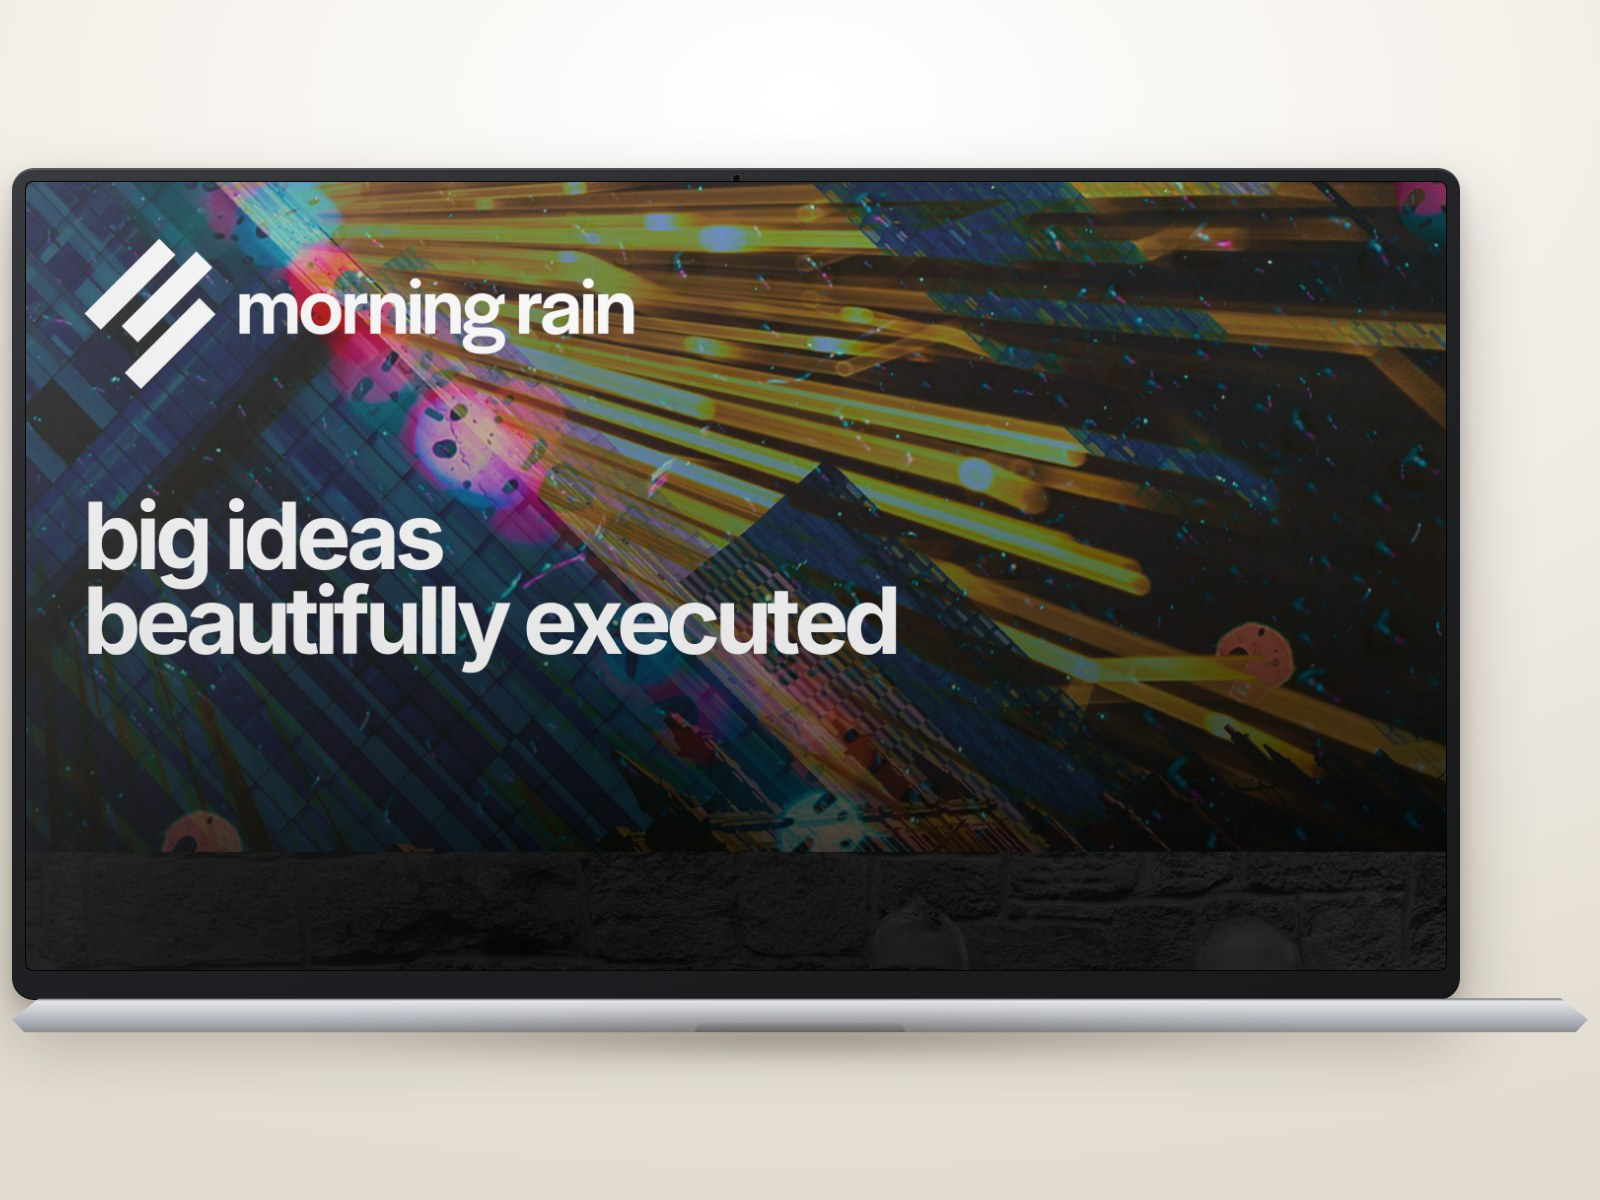
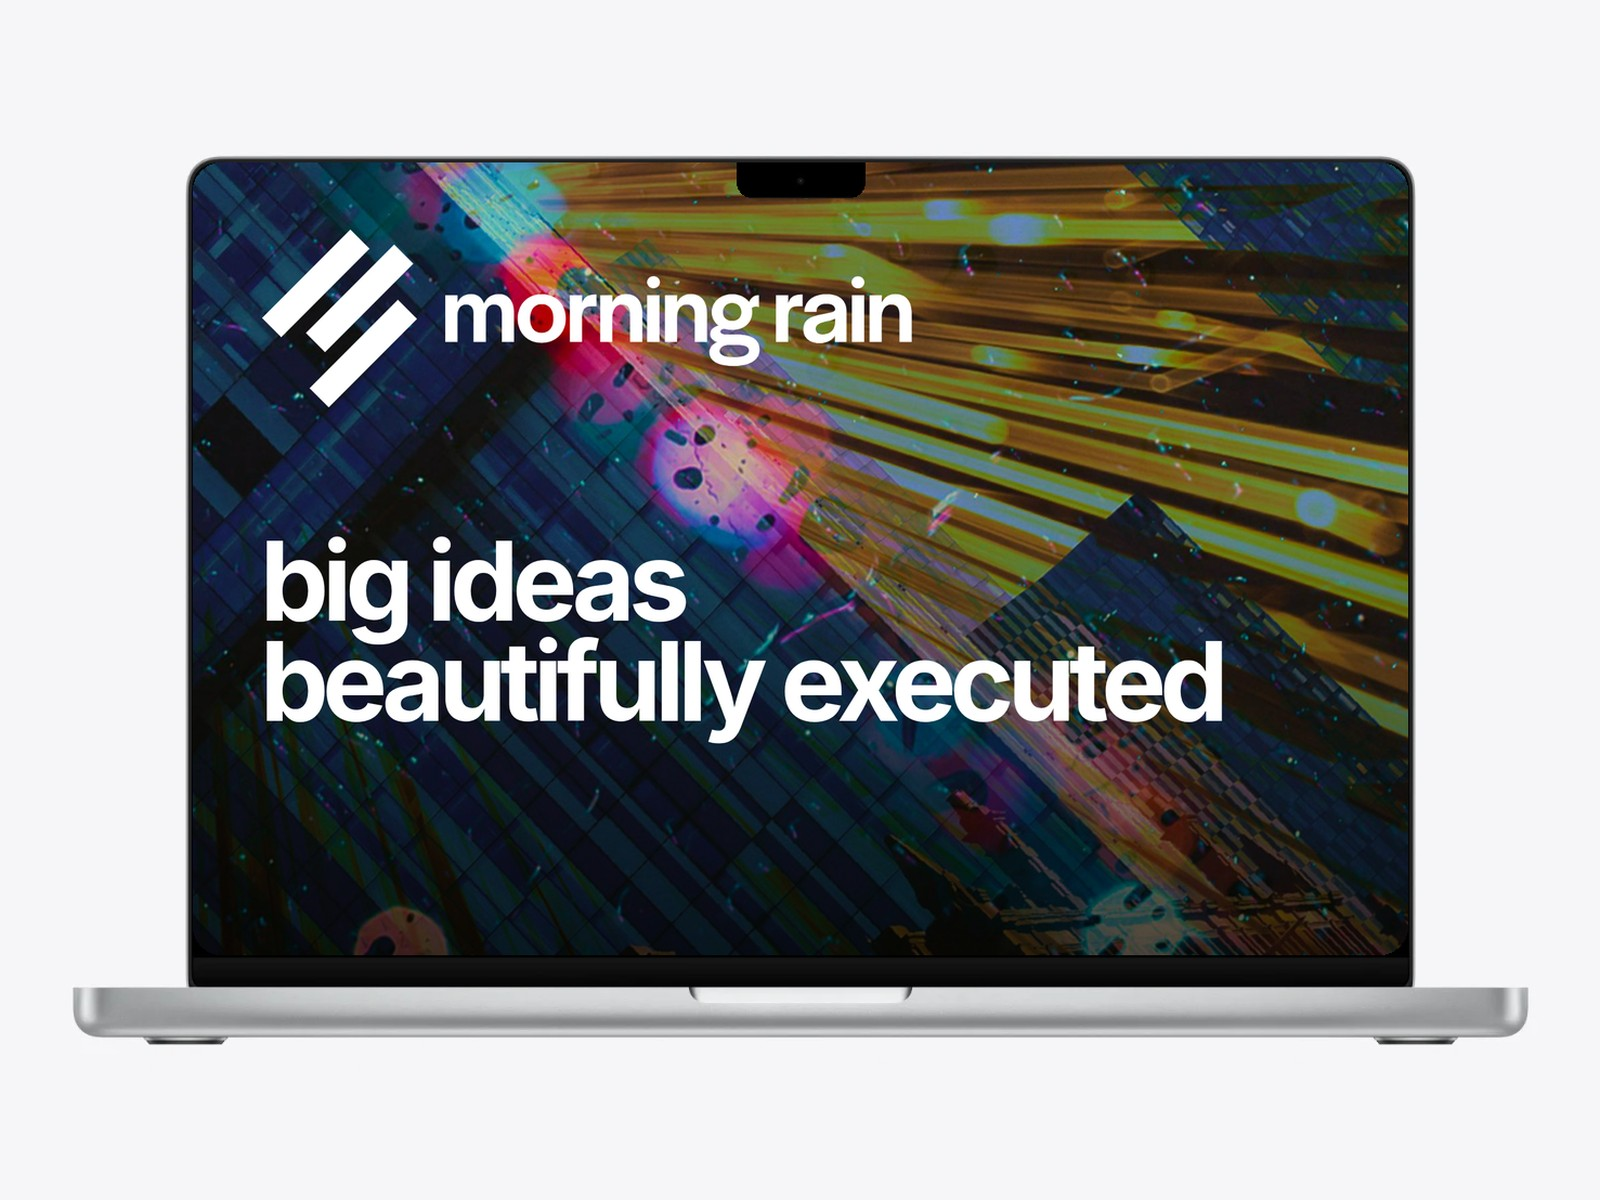
Show Morning Rain on the supplied MacBook shot, and equalise preview sizes (#4)
* Rebuild the Morning Rain laptop mockup

The previous mockup was a flat rectangle on a grey bar — it read as clip art
next to the photographic tablet cards. This replaces it with a properly
modelled laptop.

- The deck is a real plane in 3D rather than a flat strip, carrying a
  keyboard, trackpad and speaker grilles that recede in perspective.
- The lid is counter-rotated against the scene tilt so the screenshot stays
  undistorted and readable while the deck is still seen from above.
- Aluminium is shaded along its length, with a raking highlight on the glass
  and a contact shadow on the surface below.
- Removed the invented brand text from the screen chin and a stray element
  whose stacked transform projected a grey bar above the lid.
- The device fills more of the frame, which matters because this card's image
  sits in the narrower grid column and renders smaller than its neighbours.

Same screenshot as before, captured from morningraincreative.com.

Claude-Session: https://claude.ai/code/session_01TqBgKHKpGR4euJd9BpcQjq

* Use the supplied MacBook shot for the Morning Rain mockup

Replaces the drawn laptop with the MacBook Pro product shot provided, with
the Morning Rain hero composited onto its display. Nothing about the machine
itself is altered.

- Display area measured at x 439-1561, y 233-966 in the source image. That
  works out to a 1.53 aspect, matching real MacBook Pro panel proportions
  (3456x2234), which is a good check that the bounds are right.
[…]

diff --git a/src/app/page.tsx b/src/app/page.tsx
@@ -200,9 +200,14 @@ export default function Home() {
 
             <div className="mt-16 space-y-24">
               {caseStudies.map(({ number, name, category, image, mark, description, href }, i) => {
+                // Alternating rows mirror the layout, but the image always takes the wider
+                // track — so the column order flips with it, keeping every preview the
+                // same size rather than shrinking every other one.
                 // no `group` without a link — the hover zoom would imply the card is clickable
-                const layout = `${href ? "group " : ""}grid items-center gap-10 lg:grid-cols-[3fr_2fr] lg:gap-16 ${
-                  i % 2 === 1 ? "lg:[&>*:first-child]:order-2" : ""
+                const layout = `${href ? "group " : ""}grid items-center gap-10 lg:gap-16 ${
+                  i % 2 === 1
+                    ? "lg:grid-cols-[2fr_3fr] lg:[&>*:first-child]:order-2"
+                    : "lg:grid-cols-[3fr_2fr]"
                 }`;
 
                 const body = (
